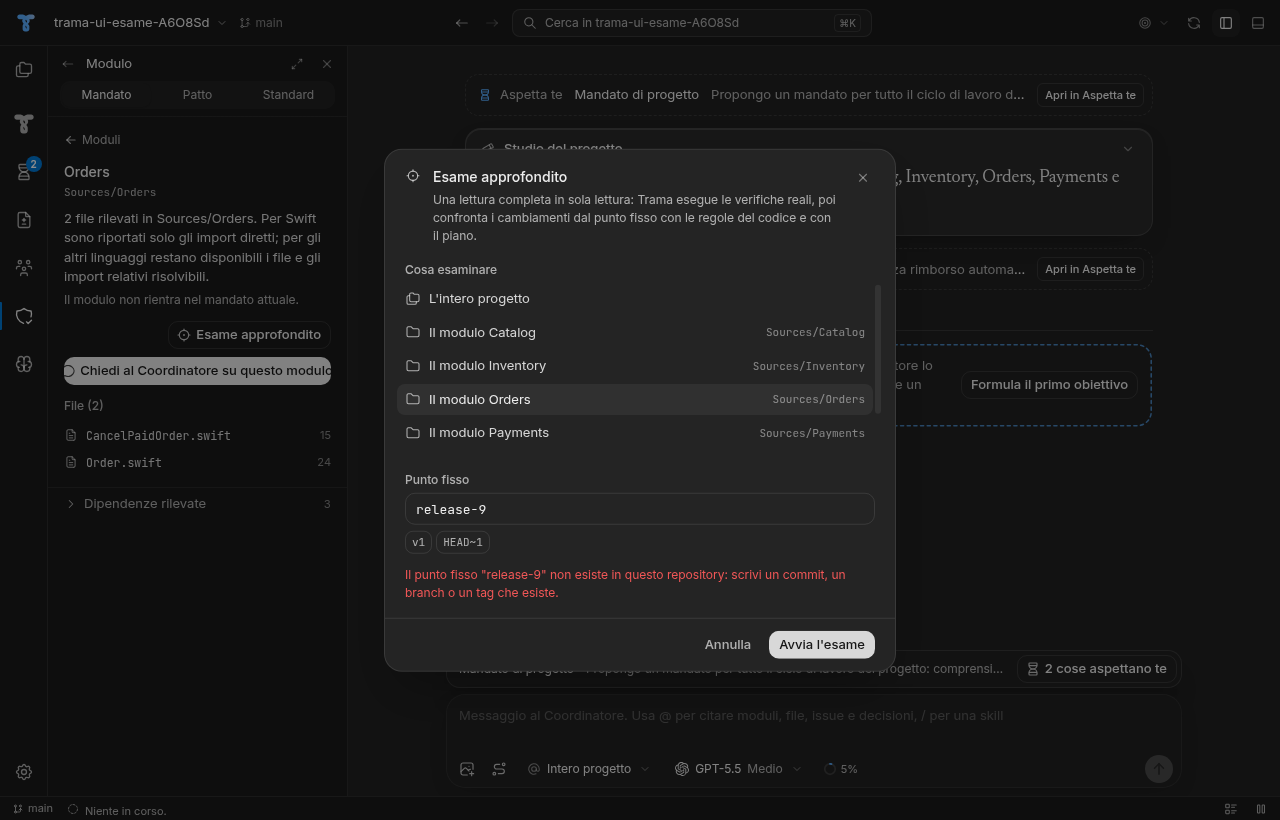
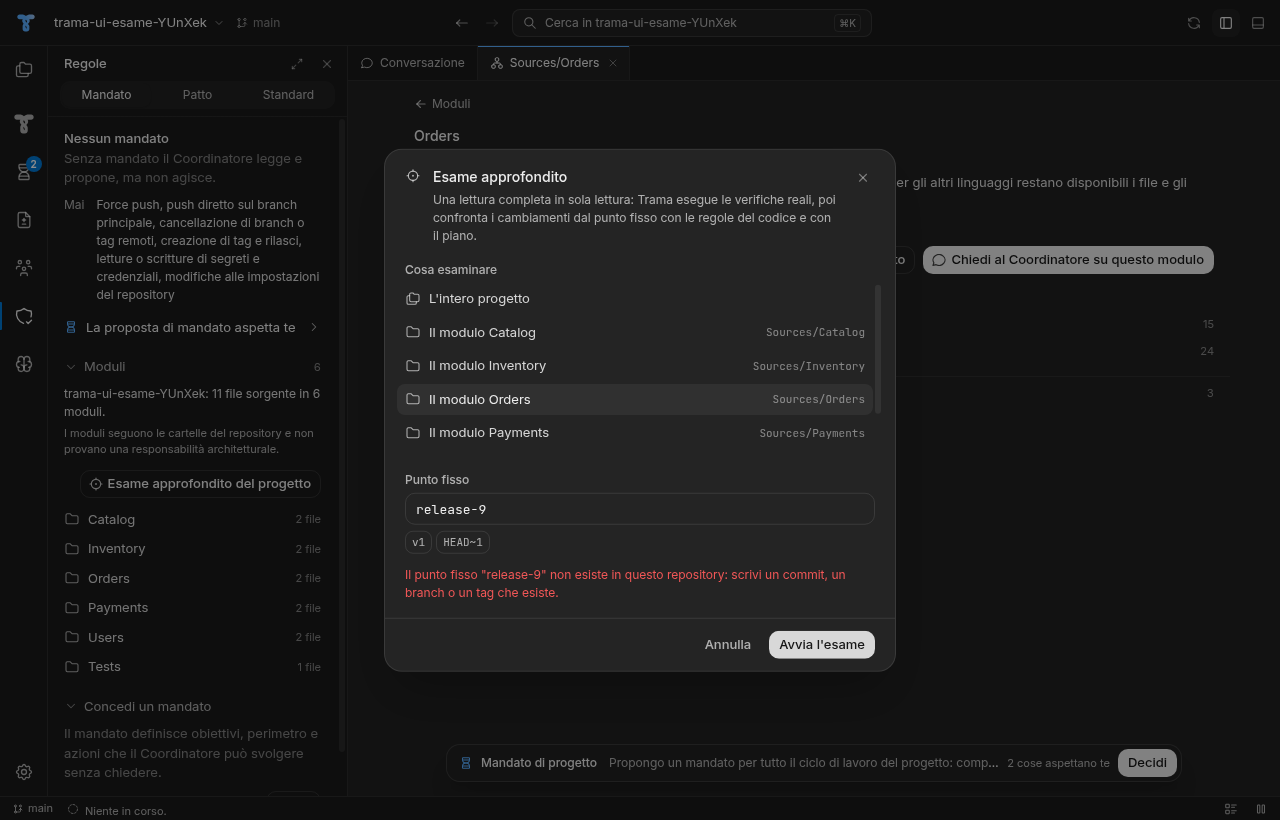
docs: refresh the focus mode screenshots with the module in its editor tab

diff --git a/docs/verifiche/f03-esame-a-tutto-schermo-2026-09-28.md b/docs/verifiche/f03-esame-a-tutto-schermo-2026-09-28.md
@@ -15,7 +15,7 @@ Controllo di #127 (specifica #124) sul branch `feature/issue-127-focus-mode-full
 
 - Test: `app/src/main/core/focusScope.test.ts` (diff dal punto fisso senza file sensibili, diff e commit limitati al modulo, punto fisso inesistente, diff vuoto anche per un modulo, testo rifiutato, proposte di punto fisso), `app/src/main/core/audit.test.ts` (un esame alla volta per bersaglio, spec dalle issue citate nei commit, binding del modulo con la skill originale, nessuna frase della skill ripetuta), `app/src/main/focusAudit.integration.test.ts` (controller reale con il server di prova: errori prima dell'avvio, esame del modulo da `HEAD~1`, verifiche sul checkout, assi nella cartella del progetto, notifiche trattenute e consegnate all'uscita, un incarico autorizzato che finisce mentre l'esame è aperto).
 - ui-check: i passi dell'esame del candidato sono quelli di main (sezione della scheda); il nuovo passo F03 apre un progetto con un tag `v1` e un commit sul modulo Orders, prova il punto fisso inesistente e il modulo senza cambiamenti, apre il modulo nella sua scheda e da lì l'esame, controlla che l'esame prenda l'area dell'editor con le schede, le tre colonne, la barra delle attività e la barra di stato ancora visibili, l'esame sopra il pannello Attività aperto con le colonne che ci stanno, l'uscita a destra, la prova verificata, poi l'esame dell'intero progetto. Le tre colonne restano dentro la finestra senza scorrimento orizzontale a 1600x1000, 1280x820, 1024x700 e 720x640 (la misura minima della finestra).
-- Schermate in `docs/images/f03/`, in chiaro e in scuro. "Prima" da origin/main 7e13d3f: mappa (`mappa-prima-*`), modulo (`modulo-prima-*`). "Dopo" da questo branch riallineato con origin/main 4a8ea8c8 (con #350, #380, #383 e #416) (passi `31a` a `31f` di ui-check): mappa e modulo con il nuovo pulsante (`mappa-dopo-*`, `modulo-dopo-*`), errori della finestra di scelta (`punto-fisso-inesistente-*`, `diff-vuoto-*`), esame del modulo a tutto schermo alle quattro misure (`esame-modulo-<misura>-*`) e con il pannello Attività aperto (`esame-modulo-pannello-attivita-*`), esame dell'intero progetto (`esame-progetto-*`).
+- Schermate in `docs/images/f03/`, in chiaro e in scuro. "Prima" da origin/main 7e13d3f: mappa (`mappa-prima-*`), modulo (`modulo-prima-*`). "Dopo" da questo branch riallineato con origin/main f9abcbec (con #350, #380, #383, #416, #375, #384 e #433) (passi `31a` a `31f` di ui-check): mappa e modulo con il nuovo pulsante (`mappa-dopo-*`, `modulo-dopo-*`), errori della finestra di scelta (`punto-fisso-inesistente-*`, `diff-vuoto-*`), esame del modulo a tutto schermo alle quattro misure (`esame-modulo-<misura>-*`) e con il pannello Attività aperto (`esame-modulo-pannello-attivita-*`), esame dell'intero progetto (`esame-progetto-*`).
 - Il progetto del test F03 e quello del passo F03 di ui-check non hanno `Package.swift`: il server di prova esegue davvero i comandi delle verifiche, e su una macchina con Swift l'esame compilerebbe il pacchetto prima di aprire gli assi (causa del timeout in CI, riprodotta con un finto `swift` lento). Per questo le schermate "dopo" mostrano solo le verifiche di git.
 
 Non verificato: un'esecuzione reale di Codex. Il server di prova non è un modello e le sue risposte non sono evidenze. Le notifiche di sistema sono provate nel controller con un host di prova, non con il centro notifiche del sistema operativo.
